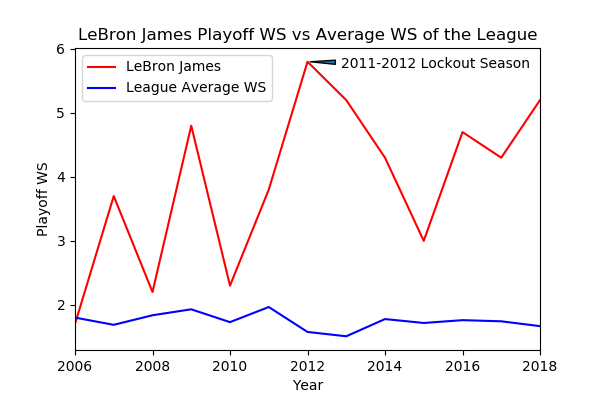
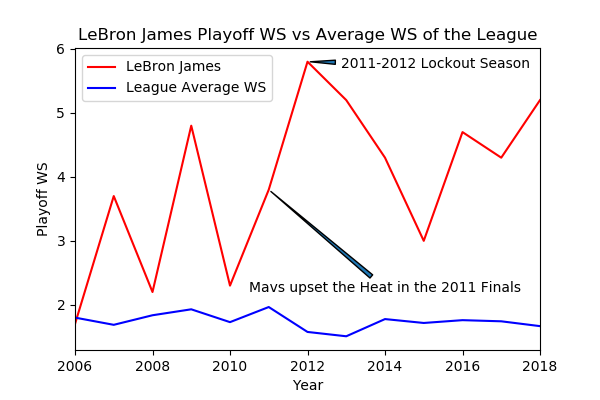
Updated an image

Changed region(s): [[0.42, 0.63, 0.87, 0.75], [0.48, 0.51, 0.57, 0.63], [0.45, 0.48, 0.48, 0.51]]

diff --git a/lebron_analysis.py b/lebron_analysis.py
@@ -75,11 +75,12 @@ adv_pf_notLBJ['WS'].mean().plot(kind='line', x='Year', y='WS',
 plt.legend(loc='upper left')
 plt.title('LeBron James Playoff WS vs Average WS of the League')
 plt.ylabel('Playoff WS')
+plt.annotate("Mavs upset the Heat in the 2011 Finals", xy=(2011, 3.8), xytext=(2014, 2.2),
+             ha='center', arrowprops=dict(arrowstyle='wedge', connectionstyle='arc3, rad=0'))
 plt.annotate('2011-2012 Lockout Season', xy=(2012, 5.8), xytext=(2015.3, 5.7),
              ha='center', arrowprops=dict(arrowstyle='wedge', connectionstyle='arc3, rad=0'))
 plt.savefig('WS_PF_LBJvsLeagueAVG.png', dpi=100)
 plt.show()
-
 # LBJ TS% Regular Season vs Playoffs with USG%
 
 # Adjusting the TS% to make sure they're at the same scale as the USG%
